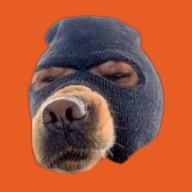
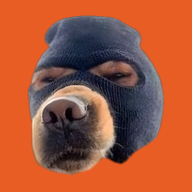
Hundekopf per KI (Real-ESRGAN) auf doppelte Auflösung hochskaliert (764x894)
Claude-Session: https://claude.ai/code/session_0127Geu7Jmeustxvavy9uprj

diff --git a/sw.js b/sw.js
@@ -1,5 +1,5 @@
 // Service Worker: macht die App offline-fähig.
-const CACHE = 'ski-v4';
+const CACHE = 'ski-v5';
 const FILES = [
   './',
   'index.html',
